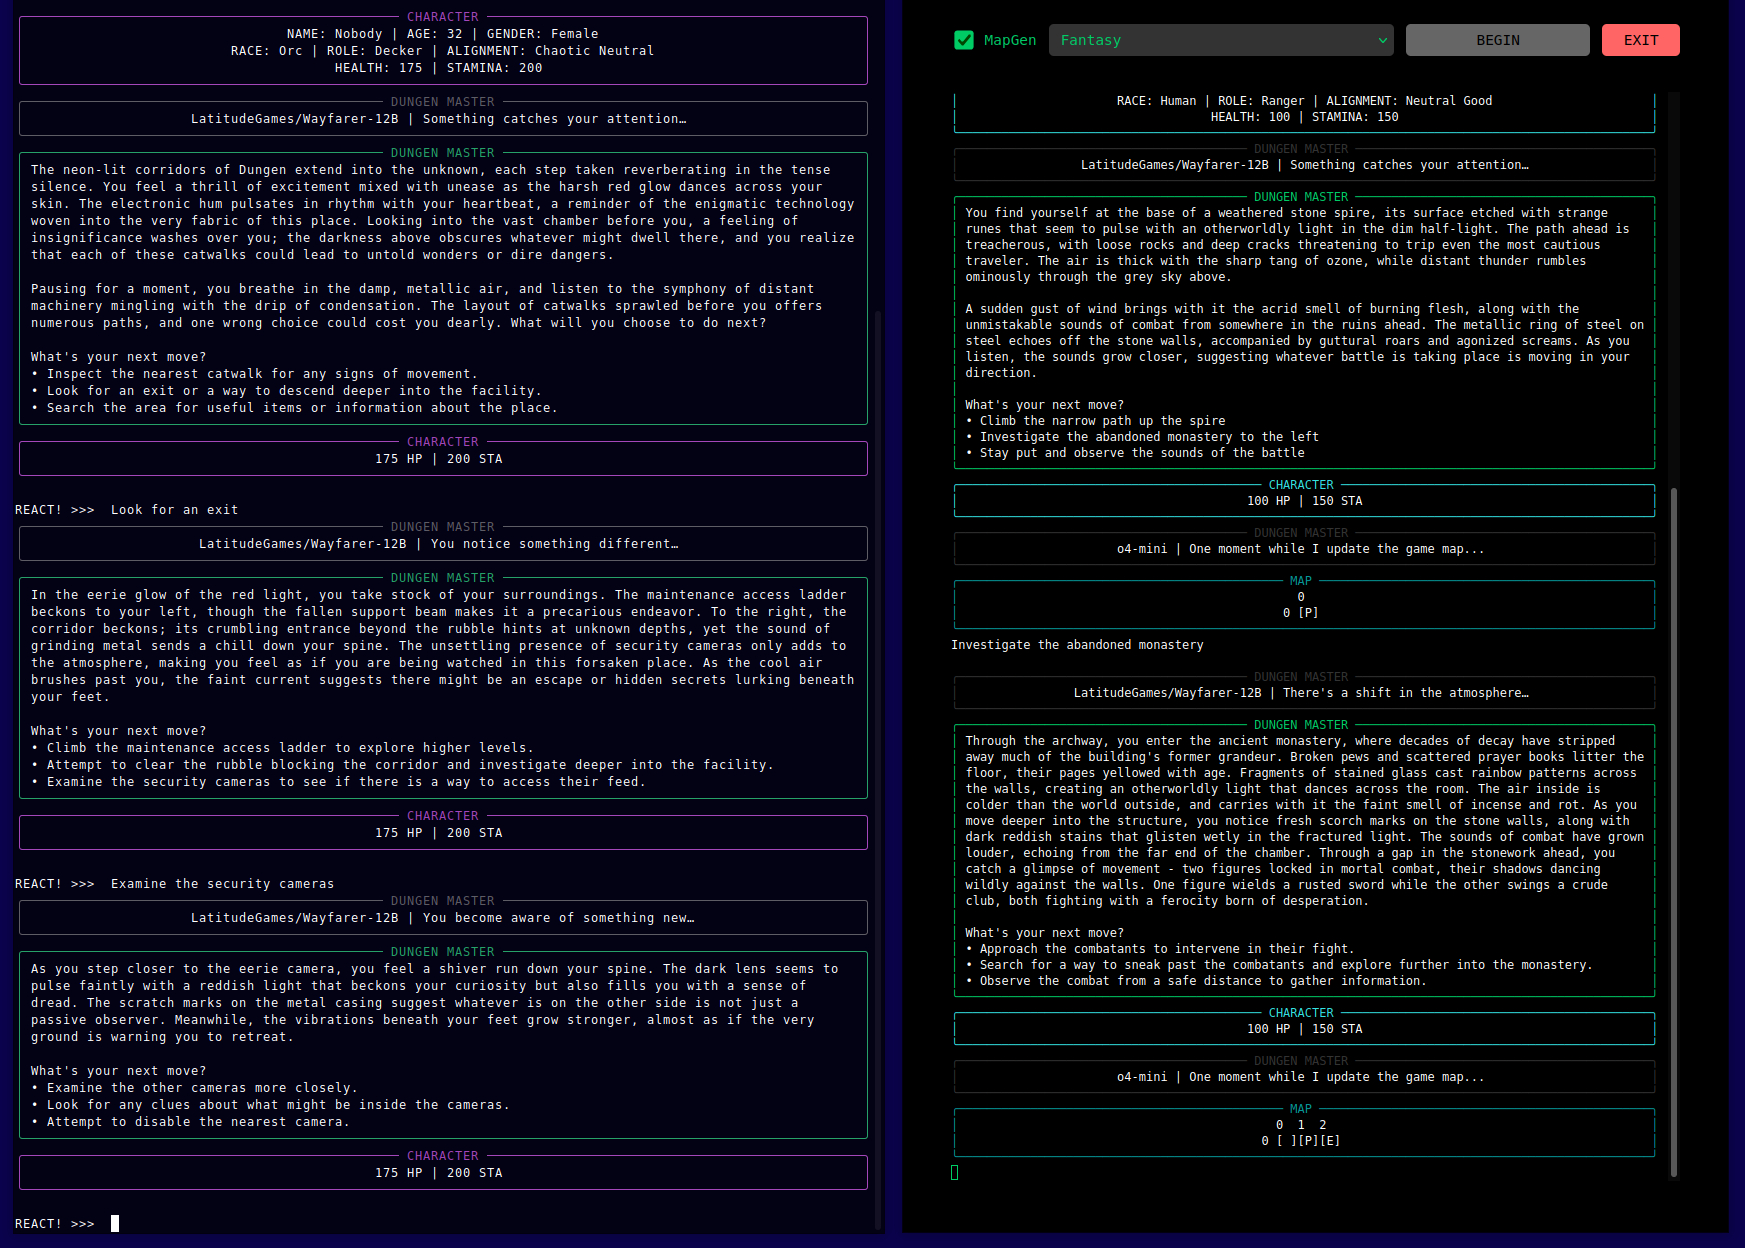
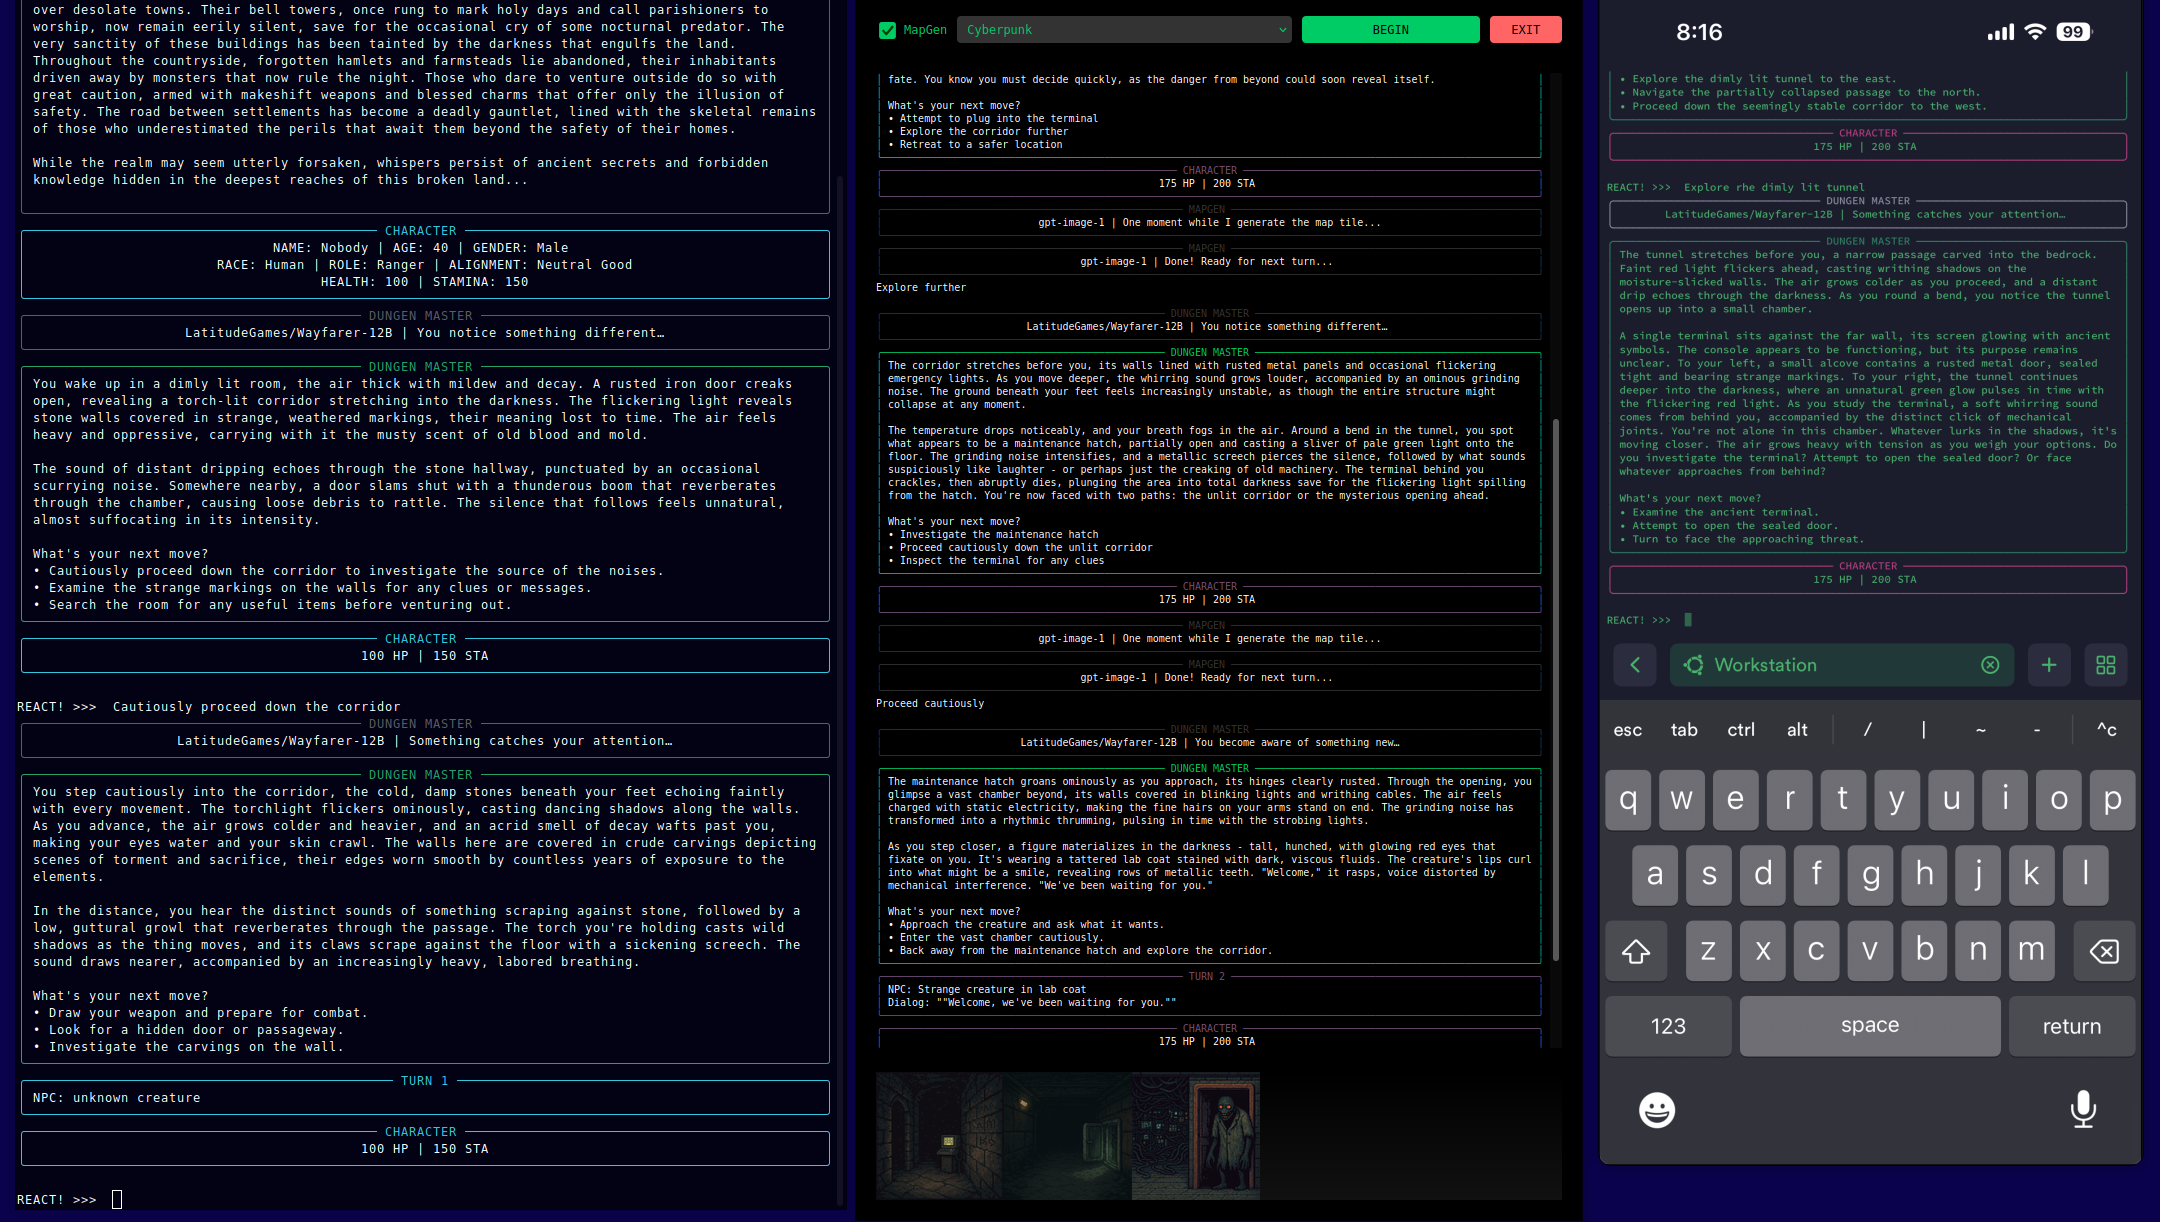
Progress

diff --git a/dungen/webui/script.js b/dungen/webui/script.js
@@ -20,7 +20,7 @@ class DungenWebUI {
         this.initSocket();
         this.bindEvents();
         this.mapTilesContainer = document.getElementById('map-tiles-container');
-        this.loadMapTiles();
+        this.toggleMapContainer();
     }
 
     initTerminal() {
@@ -126,6 +126,8 @@ class DungenWebUI {
         this.socket.on('game_stopped', () => {
             this.gameRunning = false;
             this.updateButtons();
+            this.mapTilesContainer.innerHTML = '';
+            this.stopMapRefresh();
         });
 
         this.socket.on('error', (error) => {
@@ -136,6 +138,7 @@ class DungenWebUI {
     bindEvents() {
         const startBtn = document.getElementById('start-game');
         const endBtn = document.getElementById('end-game');
+        const mapgenCheckbox = document.getElementById('mapgen-checkbox');
 
         startBtn.addEventListener('click', () => this.startGame());
         startBtn.addEventListener('touchstart', (e) => {
@@ -149,6 +152,10 @@ class DungenWebUI {
             this.stopGame();
         });
 
+        mapgenCheckbox.addEventListener('change', () => {
+            this.toggleMapContainer();
+        });
+
         document.getElementById('terminal').addEventListener('click', () => {
             this.terminal.focus();
         });
@@ -160,7 +167,25 @@ class DungenWebUI {
         });
     }
 
+    toggleMapContainer() {
+        const mapgenCheckbox = document.getElementById('mapgen-checkbox');
+        const mapTilesContainer = document.getElementById('map-tiles-container');
+        
+        if (mapgenCheckbox.checked) {
+            mapTilesContainer.style.display = 'flex';
+        } else {
+            mapTilesContainer.style.display = 'none';
+            mapTilesContainer.innerHTML = '';
+            this.stopMapRefresh();
+        }
+    }
+
     async loadMapTiles() {
+        const mapgenCheckbox = document.getElementById('mapgen-checkbox');
+        if (!mapgenCheckbox.checked) {
+            return;
+        }
+
         try {
             const response = await fetch('/api/map-tiles');
             const tiles = await response.json();
@@ -171,6 +196,11 @@ class DungenWebUI {
     }
 
     displayMapTiles(tiles) {
+        const mapgenCheckbox = document.getElementById('mapgen-checkbox');
+        if (!mapgenCheckbox.checked) {
+            return;
+        }
+
         this.mapTilesContainer.innerHTML = '';
         
         tiles.forEach(tile => {
@@ -185,16 +215,20 @@ class DungenWebUI {
 
     startGame() {
         const gameSettings = document.getElementById('game-settings').value;
+        const mapgenCheckbox = document.getElementById('mapgen-checkbox');
         const dimensions = { cols: this.terminal.cols, rows: this.terminal.rows };
+        
         this.socket.emit('start_game', { 
             settings: gameSettings, 
             dimensions: dimensions,
-            mapGen: true
+            mapGen: mapgenCheckbox.checked
         });
         
         this.mapTilesContainer.innerHTML = '';
 
-        this.startMapRefresh();
+        if (mapgenCheckbox.checked) {
+            this.startMapRefresh();
+        }
     }
 
     stopGame() {
@@ -210,6 +244,11 @@ class DungenWebUI {
     }
 
     startMapRefresh() {
+        const mapgenCheckbox = document.getElementById('mapgen-checkbox');
+        if (!mapgenCheckbox.checked) {
+            return;
+        }
+
         this.stopMapRefresh();
         this.mapRefreshInterval = setInterval(() => {
             this.loadMapTiles();

diff --git a/dungen/webui/index.html b/dungen/webui/index.html
@@ -44,6 +44,19 @@
             font-size: 12px;
             flex: 6;
         }
+        .game-settings input[type="checkbox"] {
+            margin-right: 10px;
+            transform: scale(1.2);
+            accent-color: #00cc66;
+        }
+        .game-settings label {
+            color: #00cc66;
+            font-family: monospace;
+            font-size: 12px;
+            margin-right: 10px;
+            display: flex;
+            align-items: center;
+        }
         .btn {
             background-color: #00cc66;
             color: #000;
@@ -73,11 +86,12 @@
             height: 128px;
             box-sizing: border-box;
             overflow: scroll-x;
+            overflow-y: hidden;
             display: flex;
             flex-direction: row;
             align-items: center;
             overflow-x: auto;
-            background-color: #111;
+            background: linear-gradient(to bottom, #000, #111);
         }
         .map-tile {
             width: 128px;
@@ -115,6 +129,11 @@
     <div class="container">
 
         <div class="game-settings">
+            <label>
+                <input type="checkbox" id="mapgen-checkbox">
+                MapGen
+            </label>
+
             <select id="game-settings">
                 <option value="fantasy.yaml">Fantasy</option>
                 <option value="cyberpunk.yaml">Cyberpunk</option>

diff --git a/dungen/game.py b/dungen/game.py
@@ -328,7 +328,7 @@ class Game:
     
 
     def update_map(self, input: str) -> str:
-        if self.webui:
+        if self.webui and self.map_generation:
             self.console.print(self.render_info_panel("MAPGEN", f"{self.config.image_model} | One moment while I generate the map tile..."))
             prompt = f"{self.config.tile_generation_system_prompt}\n\n{input}"
             save_dir = os.path.join("assets", "mini-map")
@@ -484,7 +484,9 @@ class Game:
 
 
     def start(self):
-        if self.map_generation:
+        if self.webui and self.map_generation:
+            model_info = f"{self.config.narrative_model} (Dungen Master) | {self.config.assistant_model} (Assistant) | {self.config.image_model} (MapGen)"
+        elif self.map_generation:
             model_info = f"{self.config.narrative_model} (Dungen Master) | {self.config.assistant_model} (Assistant) | {self.config.reasoning_model} (MapGen)"
         else:
             model_info = f"{self.config.narrative_model} (Dungen Master) | {self.config.assistant_model} (Assistant)"

diff --git a/README.md b/README.md
@@ -40,9 +40,11 @@ Update the `endpoint_id` in the `config.yaml` file. This is your RunPod endpoint
 
 ## Experimental MapGen
 
-An experiment using o4-mini to generate ASCII game maps from the narrative content.
+An experiment using o4-mini to generate ASCII game maps from the narrative content and a fixed set of "ASCII map tiles"
 
-Just pass `--map` when running the game.
+Pass `--map` when running the game.
+
+Additionally, when running the WebUI (See below), selecting MapGen in the UI, will use gpt-image-1 to generate stylistic images based on the games narrative, with the goal of generating "map tiles". *This is unfortunately expensive, hence "experimental",  and local/vllm support will be added.
 
 
 ## WEBUI!
@@ -59,3 +61,5 @@ Visit `http://127.0.0.1:5000/`
 ### Play it your way! In the console or in the browser.
 
 ![Screenshot](assets/screenshot.png)
+
+*Or even on a phone... ;P
